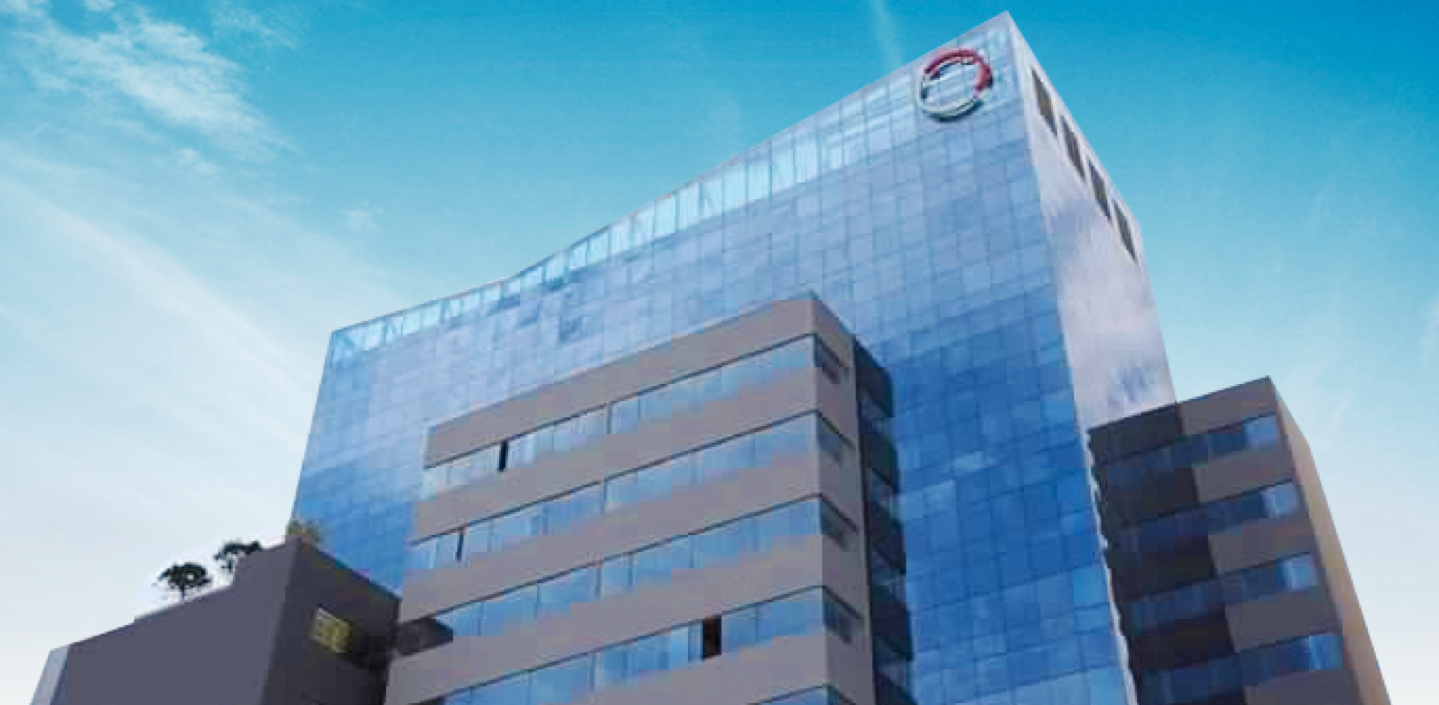
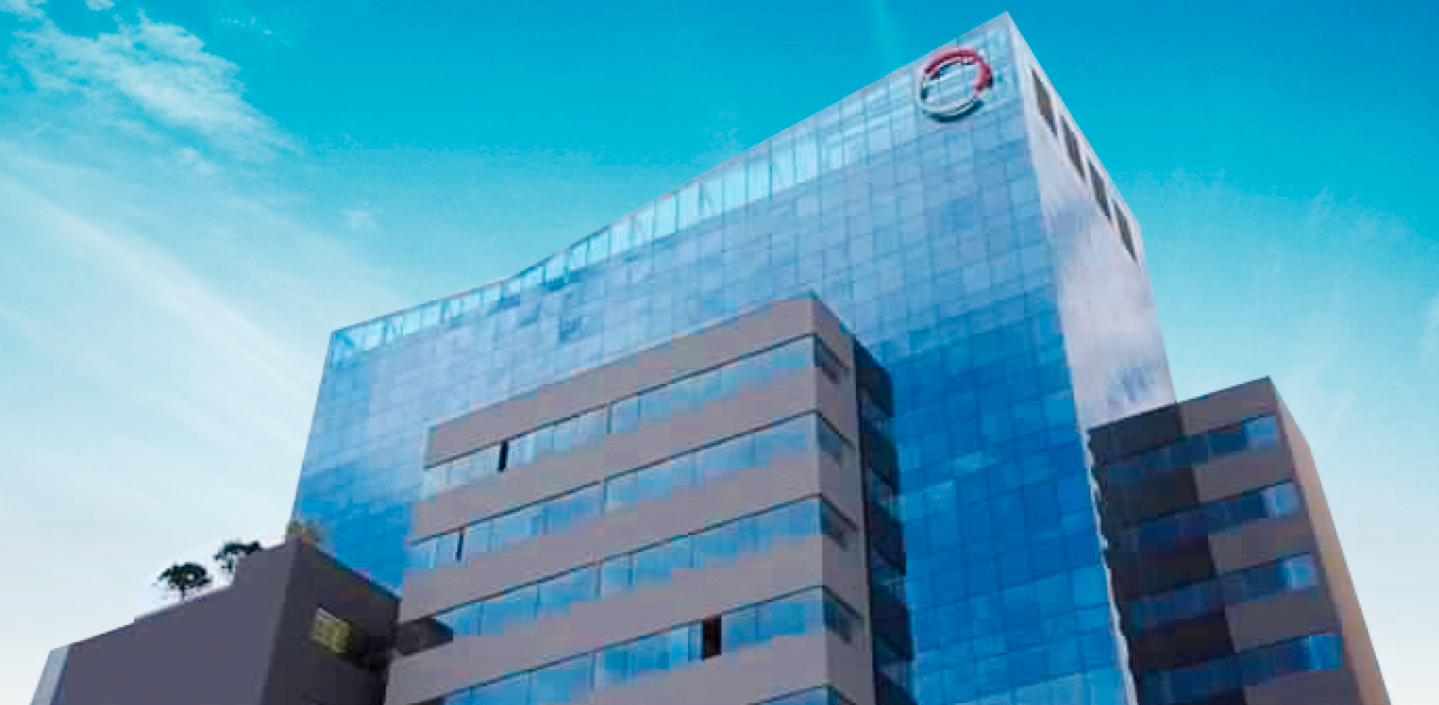
images

diff --git a/index.php b/index.php
@@ -101,7 +101,7 @@
                                 <div class="wpb_layerslider_element wpb_content_element">
 
                                     <div id="layerslider_2_1456695929_1" class="ls-wp-container" style="width:1260px;height:580px;max-width:1260px;margin:0 auto;margin-bottom: 0px;">
-                                        <div class="ls-slide" data-ls="slidedelay:8000;transition2d:75,79;"><img src="img/edificio.png" class="ls-bg" alt="slider1" /><img class="ls-l" style="top:0px;left:0px;white-space: nowrap;" data-ls="offsetxin:0;durationin:2000;easingin:linear;offsetxout:0;durationout:6000;easingout:linear;fadeout:false;scalexout:0;scaleyout:0;" src="img/edificio.png" alt="">
+                                        <div class="ls-slide" data-ls="slidedelay:8000;transition2d:75,79;"><img src="img/edificio.jpg" class="ls-bg" alt="slider1" /><img class="ls-l" style="top:0px;left:0px;white-space: nowrap;" data-ls="offsetxin:0;durationin:2000;easingin:linear;offsetxout:0;durationout:6000;easingout:linear;fadeout:false;scalexout:0;scaleyout:0;" src="img/edificio.jpg" alt="">
                                             <p class="ls-l" style="top:185px;left:87px;font-weight: 700; text-shadow: 0px 1px 1px rgba(0, 0, 0, 0.4); letter-spacing: -2px;padding-left:20px;font-family:'Open Sans', sans-serif;;font-size:52px;line-height:52px;color:#ffffff;white-space: nowrap;" data-ls="durationin:1500;delayin:1300;rotatein:20;rotatexin:30;scalexin:1.5;scaleyin:1.5;transformoriginin:left 50% 0;durationout:750;rotateout:20;rotatexout:-30;scalexout:0;scaleyout:0;transformoriginout:left 50% 0;">LOREN IPSUM<br>DOLOR SIT AMET CONSECTETUR.</p>
                                             <p class="ls-l" style="top:300px;left:114px;font-weight: 400; text-shadow: 0px 1px 1px rgba(0, 0, 0, 0.4); letter-spacing: -1px;font-family:'Open Sans', sans-serif;;font-size:25px;line-height:28px;color:#ffffff;white-space: nowrap;" data-ls="durationin:1500;delayin:2500;rotatein:20;rotatexin:30;scalexin:1.5;scaleyin:1.5;transformoriginin:left 50% 0;durationout:750;rotateout:20;rotatexout:-30;scalexout:0;scaleyout:0;transformoriginout:left 50% 0;">Lorem ipsum dolor sit amet consectetur, adipiscing elit proin nascetur.</p>
                                             <div class="ls-l" style="top:350px;left:114px;background: #000; padding: 20px 30px; font-weight: 700; text-transform: uppercase;; font-size: 13px; display: inline-block; color: #fff;white-space: nowrap;" data-ls="durationin:1500;delayin:3500;"><a href="index.php#" title="" target="_self" style="color: #fff;">Cotiza Aquí</a>
